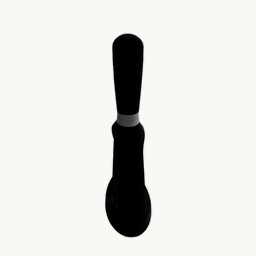
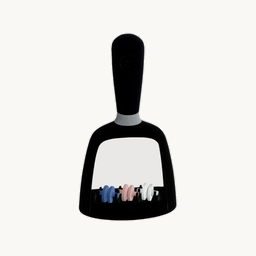
knife_sharpner: rotate view +90deg; cache-bust v23

Changed region(s): [[0.2812, 0.125, 0.7188, 0.9375], [0.5312, 0.125, 0.5938, 0.375]]

diff --git a/docs/gallery.html b/docs/gallery.html
@@ -222,7 +222,7 @@
         card.onkeydown = (e) => { if (e.key === 'Enter') go(); };
 
         const thumb = obj.thumb
-          ? `<img src="objects/${obj.id}/thumb.png?v=22" alt="${escapeHtml(obj.label)}" loading="lazy" onerror="this.parentElement.innerHTML='<div class=placeholder>&#9645;</div>'">`
+          ? `<img src="objects/${obj.id}/thumb.png?v=23" alt="${escapeHtml(obj.label)}" loading="lazy" onerror="this.parentElement.innerHTML='<div class=placeholder>&#9645;</div>'">`
           : '<div class="placeholder">&#9645;</div>';
         card.innerHTML = `
           <div class="frame">${thumb}</div>

diff --git a/wiki/gallery.html b/wiki/gallery.html
@@ -222,7 +222,7 @@
         card.onkeydown = (e) => { if (e.key === 'Enter') go(); };
 
         const thumb = obj.thumb
-          ? `<img src="objects/${obj.id}/thumb.png?v=22" alt="${escapeHtml(obj.label)}" loading="lazy" onerror="this.parentElement.innerHTML='<div class=placeholder>&#9645;</div>'">`
+          ? `<img src="objects/${obj.id}/thumb.png?v=23" alt="${escapeHtml(obj.label)}" loading="lazy" onerror="this.parentElement.innerHTML='<div class=placeholder>&#9645;</div>'">`
           : '<div class="placeholder">&#9645;</div>';
         card.innerHTML = `
           <div class="frame">${thumb}</div>

diff --git a/wiki/render_thumbnails.py b/wiki/render_thumbnails.py
@@ -58,7 +58,7 @@ VIEW_OVERRIDE = {
     "thermo_clock": np.array([-1.0, -0.65, 0.55]),       # 270deg from default (180 + 90 relative)
     "white_clock": np.array([-0.65, 1.0, 0.55]),         # default view rotated 180deg about +z
     "green_soap_dispenser": np.array([-0.467, 1.098, 0.55]),  # default view rotated 170deg about +z
-    "knife_sharpner": np.array([1.063, -0.541, 0.55]),   # 30deg from default (70 - 40 relative)
+    "knife_sharpner": np.array([0.541, 1.063, 0.55]),    # 120deg from default (30 + 90 relative)
     "white_soap_dish": np.array([1.0, 0.65, 0.55]),      # 90deg from default (270 + 180 relative)
     "soaptray": np.array([1.0, 0.65, 0.55]),             # default view rotated 90deg about +z
     "shoe_organizer": np.array([1.0, 0.65, 0.55]),       # default view rotated 90deg about +z
